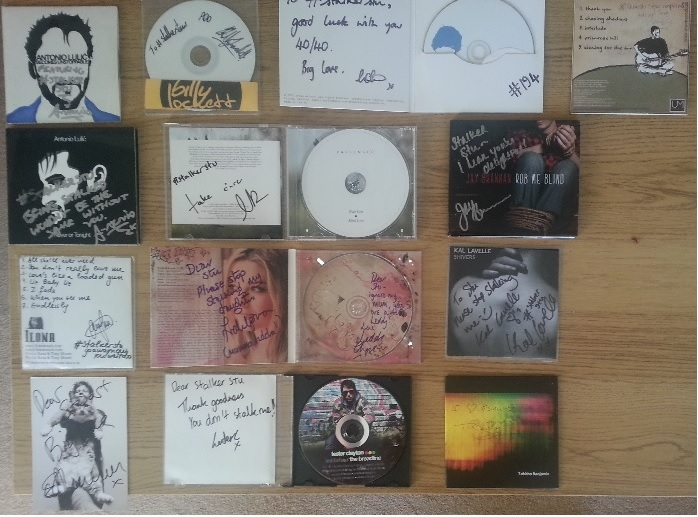
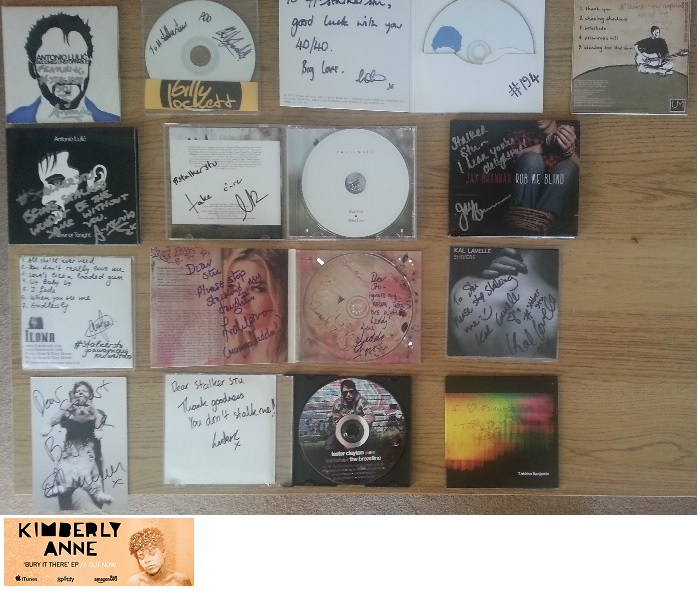
Kimberly Anne pages added

diff --git a/musickimberlyann.html b/musickimberlyann.html
@@ -1,0 +1,89 @@
+<!doctype html>
+<html lang="en">
+<head>
+	<meta charset="UTF-8">
+    <title>StalkerStu</title>
+    <link rel="stylesheet" type="text/css" media="all" href="css/normalize.css" />
+	<link rel="stylesheet" type="text/css" media="all" href="css/style.css" />
+	<link rel="stylesheet"  type="text/css" href="css/960.css">
+	<link rel="stylesheet"  type="text/css" href="css/960_12_col.css">		
+	<link href='http://fonts.googleapis.com/css?family=Josefin+Sans' rel='stylesheet' type='text/css'>
+	<link href='http://fonts.googleapis.com/css?family=Kavoon' rel='stylesheet' type='text/css'>
+	<link href='http://fonts.googleapis.com/css?family=Gudea' rel='stylesheet' type='text/css'>
+	<script src="menu.js" type="text/javascript"></script>
+
+
+</head>
+
+<body>
+
+	<header>
+
+		<h1 id="technique-one">StalkerStu
+			<img id="headerlogo" src="images/stalkerstu.png">
+		</h1>
+		<nav>
+			<div id="sse1">
+  				<div id="sses1">
+				    <ul>
+				      <li><a href="index.html">Home</a></li>
+				      <li><a href="about.html">About</a></li>
+				      <li><a href="music.html">Music</a></li>
+				      <li><a href="film.html">Film</a></li>
+				      <li><a href="blog.html">Blog</a></li>
+				      <li><a href="contact.html">Contact</a></li>
+				    </ul>
+				</div>
+			</div>
+			<div class="clear"></div>
+
+			<h2>Music</h2>
+		</nav>
+	</header>
+	<div class="clear"></div>
+	<div class="musickimberlyanne">
+		<div id="musiccontent" >
+
+			<h3>Kimberly Ann</h3>
+			<br />
+
+			<div class="bio">
+				<p>Kimberly Anne is drum kits made from a £5 Ikea tables, condenser microphones duct taped to mops and song titles spelled incorrectly (originally accidentally). Known for recording/broadcasting live demos and events from her bedroom in South East London, Kimberly Anne is handmade in every sense of the word. Producing music of a rare and unique quality but yet comfortingly familiar, she captures your imagination and </p>
+			</div>
+			<h4>Videos</h4>
+
+			<iframe width="420" height="315" src="http://www.youtube.com/watch?v=KTjBPMQ0_EI" frameborder="0" allowfullscreen></iframe>
+
+			<h4>Sound Cloud</h4>
+
+			<iframe width="420" height="450" scrolling="no" frameborder="no" src="https://w.soundcloud.com/player/?url=http%3A%2F%2Fapi.soundcloud.com%2Fusers%2F1137308"></iframe>
+
+			<h4>Social Media</h4>
+
+			<iframe src="http://www.facebook.com/plugins/like.php?href=http://www.facebook.com%2Fkamusic&amp;layout=standard&amp;show_faces=true&amp;width=450&amp;action=like&amp;font=arial&amp;colorscheme=dark&amp;height=62" style="width:450px; height:62px;"></iframe>		
+
+			<h4>Website</h4>
+
+			<a href="http://www.kallavelle.com">http://www.kimberlyannemusic.com</a>
+
+
+		</div>
+	</div>
+
+	<div class="clear"></div>
+	<footer class="clearfix">
+		<div id="footercontent">
+			&copy StalkerStu 
+			<!-- BEGIN #socialMedia -->
+	        <div id="socialMedia">
+	            <ul>
+		            <a href="http://www.twitter.com/thew00d"><li class="twitter"></li></a>
+		            <a href="http://www.facebook.com/thew00d"><li class="facebook"></li></a>
+	            </ul>
+	        </div>	
+	        <!-- END #socialMedia -->
+		</div>
+	</footer>
+
+</body>
+</html>

diff --git a/css/style.css b/css/style.css
@@ -356,6 +356,13 @@ h2 {
     height: 120px;
 }
 
+/* Kimberly Ann --------------------- */
+#music11 {
+    background: url(../images/albums.jpg) -4px 93px;
+    width: 190px;
+    height: 69px;
+}
+
 .musicall {
     background-attachment: fixed;
 }
@@ -369,8 +376,13 @@ h2 {
 .musickallavelle {
     background: url(../images/kallavelle.jpg);    
     background-attachment: fixed;
-
 }
+
+.musickimberlyanne {
+    background: url(../images/kimberlyanne.jpg);    
+    background-attachment: fixed;
+}
+
 
 .bio {
     width: 50%;

diff --git a/music.html b/music.html
@@ -51,6 +51,7 @@
 		<!--<div id="music8" class="music"></div>-->
 		<!--<div id="music9" class="music"></div>-->
 		<a href="musickallavelle.html"><div id="music10" class="music grid_3 push_3"></div></a>
+		<a href="musickimberlyann.html"><div id="music11" class="music grid_3 push_3"></div></a>
 	</div>
 
 	<div class="clear"></div>
